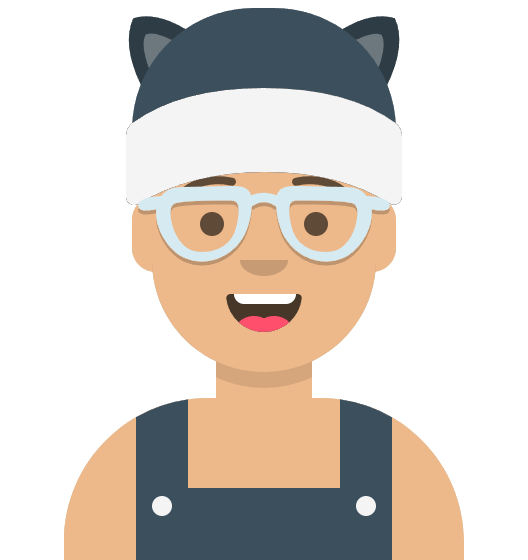
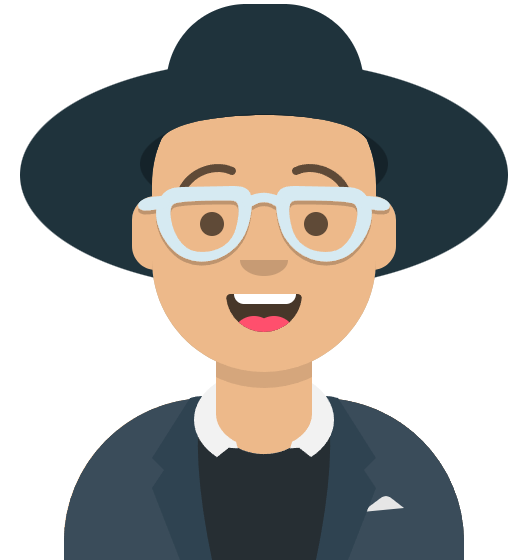
added some ideas but can be changed

diff --git a/frontend/src/pages/AboutUs.jsx b/frontend/src/pages/AboutUs.jsx
@@ -1,13 +1,25 @@
+import { useState } from "react";
 import charlotte from "../assets/charlotte.png";
+import charlottecat from "../assets/charlotte-cat.png";
 import alaric from "../assets/alaric.png";
+import alariccat from "../assets/alaric-cat.png";
 import trung from "../assets/trung.png";
+import trungcat from "../assets/trung-cat.png";
 import amani from "../assets/amani.png";
+import amanicat from "../assets/amani-cat.png";
 import rudy from "../assets/rudy.png";
+import rudycat from "../assets/rudy-cat.png";
 import catheart from "../assets/catheart.png";
 import thankyou from "../assets/thankyou.png";
 import "../components/aboutUs.scss";
 
 function AboutUs() {
+  const [flip, setFlip] = useState(true);
+
+  function handleClick() {
+    setFlip(!flip);
+  }
+
   return (
     <div className="about-wrapper">
       <div className="background" />
@@ -17,37 +29,50 @@ function AboutUs() {
         </figure>
         <figure className="charac-img">
           <div className="team-container">
-            <img className="alaric" src={alaric} alt="Alaric character" />
+            <img
+              className="front-character"
+              src={flip ? alaric : alariccat}
+              alt="Alaric character"
+            />
             <figcaption>Alaric</figcaption>
           </div>
           <div className="team-container">
-            <img className="amani" src={amani} alt="Amani character" />
+            <img
+              className="front-character"
+              src={flip ? amani : amanicat}
+              alt="Amani character"
+            />
             <figcaption>Amani</figcaption>
           </div>
           <div className="team-container">
             <img
-              className="charlotte"
-              src={charlotte}
+              className="front-character"
+              src={flip ? charlotte : charlottecat}
               alt="Charlotte character"
             />
             <figcaption>Charlotte</figcaption>
           </div>
           <div className="team-container">
-            <img className="rudy" src={rudy} alt="Rudy character" />
+            <img
+              className="front-character"
+              src={flip ? rudy : rudycat}
+              alt="Rudy character"
+            />
             <figcaption>Rudy</figcaption>
           </div>
           <div className="team-container">
-            <img className="trung" src={trung} alt="Trung character" />
+            <img
+              className="front-character"
+              src={flip ? trung : trungcat}
+              alt="Trung character"
+            />
             <figcaption>Trung</figcaption>
           </div>
         </figure>
       </div>
       <hr />
       <div className="cheerUs">
-        <img className="cat-heart" src={catheart} alt="cat heart" />
-        <h1>Miaou!</h1>
-        <br />
-        <p>Bienvenue sur la page de notre jeu web !</p>
+        <h1>Miaou !</h1>
         <br />
         <p>
           Nous sommes un groupe de développeurs passionnés de chats, et nous
@@ -68,6 +93,9 @@ function AboutUs() {
           Si vous êtes un amoureux des chats et que vous cherchez un jeu de
           société amusant et interactif pour jouer, vous êtes au bon endroit.
         </p>
+        <button type="button" className="cat-button" onClick={handleClick}>
+          <img className="cat-heart" src={catheart} alt="cat heart" />
+        </button>
       </div>
     </div>
   );

diff --git a/frontend/src/components/aboutUs.scss b/frontend/src/components/aboutUs.scss
@@ -1,6 +1,15 @@
 @import url("https://fonts.googleapis.com/css2?family=Patrick+Hand&display=swap");
 @import "./style";
 
+@font-face {
+  font-family: "Rocher";
+  src: url(https://assets.codepen.io/9632/RocherColorGX.woff2);
+}
+@font-palette-values --Pink {
+  font-family: Rocher;
+  base-palette: 1;
+}
+
 * {
   margin: 0;
 }
@@ -23,24 +32,25 @@
   justify-content: center;
   flex-wrap: wrap;
   gap: 25px;
+  .team-container{
+    padding: 1rem;
+    border-radius: 20px;
+    border: none;
+    background-color: white;
+    box-shadow: -0px -2px 2px rgba(126, 126, 126, 0.4),
+      -2px -4px 2px rgba(126, 126, 126, 0.4),
+      -4px -6px 2px rgba(126, 126, 126, 0.4),
+      -6px -8px 2px rgba(126, 126, 126, 0.4);
+  }
   img {
     width: 6rem;
+    filter: drop-shadow(-2px -2px 2px rgb(0, 0, 0));
   }
   figcaption {
     font-family: "Patrick Hand", cursive;
     font-weight: bold;
     font-size: 1.35rem;
   }
-}
-.team-container {
-  border-radius: 20px;
-  padding: 1%;
-  // box-shadow: 0 0 20px $main-color;
-  box-shadow: -0px -2px 2px rgba(126, 126, 126, 0.4),
-    -2px -4px 2px rgba(126, 126, 126, 0.4),
-    -4px -6px 2px rgba(126, 126, 126, 0.4),
-    -6px -8px 2px rgba(126, 126, 126, 0.4);
-  background-color: white;
 }
 
 hr {
@@ -51,7 +61,17 @@ hr {
   margin: 4rem auto;
   max-width: 80vw;
   .cat-heart {
-    width: 15rem;
+    width: 13rem;
+  }
+  h1{
+    font-size: 3rem;
+    font-family: "Rocher";
+    font-palette: --Pink;
+    letter-spacing: 7px
+  }
+  button {
+    border: none;
+    margin-top: 2.5rem;
   }
   p {
     text-align: start;
@@ -59,10 +79,6 @@ hr {
     font-size: 1.5rem;
     margin: auto 8%;
   }
-}
-
-.ratingStars {
-  width: 20rem;
 }
 
 @media screen and (min-width: 768px) {
